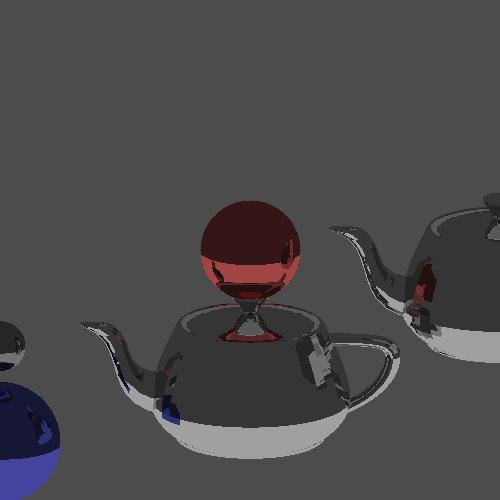
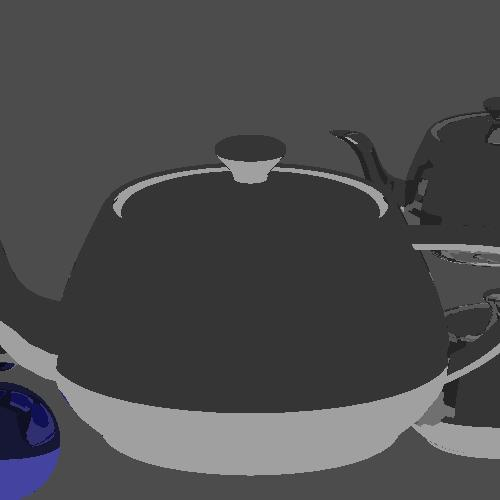
Added better obj support

diff --git a/src/simulation/Ray/IO/OBJFile.java b/src/simulation/Ray/IO/OBJFile.java
@@ -8,120 +8,162 @@ import simulation.Ray.Tracables.Traceable;
 import simulation.Ray.Tracables.Tri;
 
 import java.util.ArrayList;
+//todo clean up and make more compatible and add texture coordinates
 
+//parse obj files
 public class OBJFile implements GeometryFile{
 
+    //data
     ArrayList<Vector3> vertexes = new ArrayList<>();
     ArrayList<Vector3> normals = new ArrayList<>();
-    ArrayList<Integer> faces = new ArrayList<>();
-    ArrayList<Integer> normal_faces = new ArrayList<>();
+    ArrayList<Vector3> texture_coordinates = new ArrayList<>();
 
+    //indices of data(faces)
+    ArrayList<Integer> vert_indexes = new ArrayList<>();
+    ArrayList<Integer> norm_indexes = new ArrayList<>();
+    ArrayList<Integer> tex_indexes = new ArrayList<>();
+
+    //parse the file itself. Specify to scale and flip the normals. Blender requires to be flipped normals normally.
+    //only supports triangles
    public OBJFile(String filename, double scale, boolean flip_normals){
+       //flip normals
        double flip = 1;
-       if(flip_normals){
-           flip = -1;
-       }
+       if(flip_normals){flip = -1;}
 
+        //open file
        ReadFile f = new ReadFile(filename);
        ArrayList<String> lines = f.getLines();
+
+       //parse line by line
        for (String line: lines) {
-            if(line.isEmpty()){
-                continue;
-            }
+            String[] split = line.split("\\s+|/+"); //split by whitespace or slash
+            if(split.length < 4){continue;} //empty or invalid line
 
-             if(line.charAt(0) == 'v' && line.charAt(1 ) == 'n'){ //vertex normal
-                String[] split = line.split("\\s+");
-                if(split.length == 4){//correct amount of values
-                    //ignore first since it is v
-                    Vector3 v = new Vector3(Double.parseDouble(split[1])*flip, Double.parseDouble(split[2])*flip, Double.parseDouble(split[3])*flip); //parse position
-                    normals.add(v);
-                }
-
-
-            }
-             else if(line.charAt(0) == 'v'){ //vertex
-                String[] split = line.split("\\s+");
-                if(split.length == 4){//correct amount of values
-                    //ignore first since it is v
+           //check the type
+            if(split[0].equals("v")){ //vertex
                     Vector3 v = new Vector3(Double.parseDouble(split[1])*scale, Double.parseDouble(split[2])*scale, Double.parseDouble(split[3])*scale); //parse position
                     vertexes.add(v);
-                }
-
-
-            }
-
-            else if(line.charAt(0) == 'f'){ //fase
-                String[] split = line.split("\\s+|/");
+            }else if(split[0].equals("vn")){ //vertex normal
+                Vector3 v = new Vector3(Double.parseDouble(split[1])*scale, Double.parseDouble(split[2])*scale, Double.parseDouble(split[3])*scale); //parse position
+                normals.add(v);
+            }else if(split[0].equals("vt")){ //texture coordinate
+                Vector3 v = new Vector3(Double.parseDouble(split[1])*scale, Double.parseDouble(split[2])*scale, 0); //parse position
+                texture_coordinates.add(v);
+            }else if(split[0].equals("f")){ //face
                 if(split.length == 4) {//triangle not quad
-                    //ignore first split since it is f
-                    //parse and add indices
-                    faces.add(Integer.parseInt(split[1])-1);
-                    faces.add(Integer.parseInt(split[2])-1);
-                    faces.add(Integer.parseInt(split[3])-1);
+                    //parse and add indices, all the same
+                    vert_indexes.add(Integer.parseInt(split[1])-1);
+                    vert_indexes.add(Integer.parseInt(split[2])-1);
+                    vert_indexes.add(Integer.parseInt(split[3])-1);
 
-                    normal_faces.add(Integer.parseInt(split[1])-1);
-                    normal_faces.add(Integer.parseInt(split[2])-1);
-                    normal_faces.add(Integer.parseInt(split[3])-1);
+                    tex_indexes.add(Integer.parseInt(split[1])-1);
+                    tex_indexes.add(Integer.parseInt(split[2])-1);
+                    tex_indexes.add(Integer.parseInt(split[3])-1);
+
+                    norm_indexes.add(Integer.parseInt(split[1])-1);
+                    norm_indexes.add(Integer.parseInt(split[2])-1);
+                    norm_indexes.add(Integer.parseInt(split[3])-1);
 
                 }
-                else if(split.length == 10){//separate normal indices
-                    faces.add(Integer.parseInt(split[1])-1);
-                    faces.add(Integer.parseInt(split[4])-1);
-                    faces.add(Integer.parseInt(split[7])-1);
+                else if(split.length == 10) {//separate normal and texture coordinate indices
                     //f index/tex/normal index/tex/normal  index/tex/normal
-                    normal_faces.add(Integer.parseInt(split[3])-1);
-                    normal_faces.add(Integer.parseInt(split[6])-1);
-                    normal_faces.add(Integer.parseInt(split[9])-1);
+                    vert_indexes.add(Integer.parseInt(split[1]) - 1);
+                    vert_indexes.add(Integer.parseInt(split[4]) - 1);
+                    vert_indexes.add(Integer.parseInt(split[7]) - 1);
+
+                    tex_indexes.add(Integer.parseInt(split[2]) - 1);
+                    tex_indexes.add(Integer.parseInt(split[5]) - 1);
+                    tex_indexes.add(Integer.parseInt(split[8]) - 1);
+
+                    norm_indexes.add(Integer.parseInt(split[3]) - 1);
+                    norm_indexes.add(Integer.parseInt(split[6]) - 1);
+                    norm_indexes.add(Integer.parseInt(split[9]) - 1);
+                } else if(split.length == 7) { //only special indices for either normal OR texture coords
+                    vert_indexes.add(Integer.parseInt(split[1]) - 1);
+                    vert_indexes.add(Integer.parseInt(split[3]) - 1);
+                    vert_indexes.add(Integer.parseInt(split[5]) - 1);
+                    if (line.contains("//")) { //normal specified
+                        //f index//norm index//norm  index//norm
+                        norm_indexes.add(Integer.parseInt(split[2]) - 1);
+                        norm_indexes.add(Integer.parseInt(split[4]) - 1);
+                        norm_indexes.add(Integer.parseInt(split[6]) - 1);
+
+                        tex_indexes.add(Integer.parseInt(split[1]) - 1);
+                        tex_indexes.add(Integer.parseInt(split[2]) - 1);
+                        tex_indexes.add(Integer.parseInt(split[3]) - 1);
+
+                    } else { //texture specified
+                        //f index/tex index/tex  index/tex
+                        tex_indexes.add(Integer.parseInt(split[2]) - 1);
+                        tex_indexes.add(Integer.parseInt(split[4]) - 1);
+                        tex_indexes.add(Integer.parseInt(split[6]) - 1);
+
+                        norm_indexes.add(Integer.parseInt(split[1]) - 1);
+                        norm_indexes.add(Integer.parseInt(split[2]) - 1);
+                        norm_indexes.add(Integer.parseInt(split[3]) - 1);
+                    }
 
 
                 }
-
 
             }
-
 
        }
    }
 
+
+   //convert data to traceable
     @Override
     public Group getScene() {
        ArrayList<Traceable> objects = new ArrayList<>();
-       boolean gen_normals = normals.size() != vertexes.size() || normal_faces.size() != faces.size(); //check if vertex normals are given
+
+       //check if it contains vertex normals and texture coordinates
+       boolean gen_normals = normals.size() == 0; //check if vertex normals are given
+        boolean gen_tex_coords = texture_coordinates.size()==0; //check if vertex normals are given
 
        //construct triangles out of faces and vertices
-        for (int i = 0; i < faces.size(); i+=3) {
+        for (int i = 0; i < vert_indexes.size(); i+=3) {
+            //gather data
             Vector3[] verts = new Vector3[3];
             Vector3[] norms = new Vector3[3];
+            Vector3[] tex = new Vector3[3];
 
-            //auto generate flat normals
-            //get vertices
-            Vector3 vert_a = vertexes.get(faces.get(i+0));
-            Vector3 vert_b = vertexes.get(faces.get(i+1));
-            Vector3 vert_c = vertexes.get(faces.get(i+2));
-            //get sides
-            Vector3 side_a = vert_a.subtract(vert_b);
-            Vector3 side_b = vert_c.subtract(vert_b);
-            //take cross product of two sides
-            Vector3 auto_normal = side_a.cross( side_b).normalized();
+            Vector3 auto_normal = new Vector3();
+            if(gen_normals){
+                //auto generate flat normals
+                //get vertices
+                Vector3 vert_a = vertexes.get(vert_indexes.get(i+0));
+                Vector3 vert_b = vertexes.get(vert_indexes.get(i+1));
+                Vector3 vert_c = vertexes.get(vert_indexes.get(i+2));
+                //get sides
+                Vector3 side_a = vert_a.subtract(vert_b);
+                Vector3 side_b = vert_c.subtract(vert_b);
+                //take cross product of two sides
+                auto_normal = side_a.cross( side_b).normalized();
+            }
+            //auto generate texture coordinates
+            Vector3 auto_coord = vertexes.get(vert_indexes.get(i+0)).normalized();
 
+            //set values
             for (int j = 0; j < 3; j++) {
-
-
-                verts[j] =  vertexes.get(faces.get(i+j));
+                verts[j] =  vertexes.get(vert_indexes.get(i+j)); //set vertex
+                //set normal
                 if(gen_normals){
                     norms[j] = auto_normal; //use flat normals
                 }else{
-                    norms[j] =  normals.get(normal_faces.get(i+j)); //get vertex normals
+                    norms[j] =  normals.get(norm_indexes.get(i+j)); //get vertex normals
                 }
-
-
+                //set text coord
+                if(gen_tex_coords){
+                    tex[j] = auto_coord; //use flat normals
+                }else{
+                    tex[j] =  texture_coordinates.get(tex_indexes.get(i+j)); //get vertex normals
+                }
             }
-            objects.add(new Tri(verts,norms));
+            objects.add(new Tri(verts,norms));//add triangle
 
         }
-
-
-        return new Group(objects);
+        return new Group(objects); //build bvh and return group
     }
 
     @Override

diff --git a/src/simulation/Ray/Tracables/Group.java b/src/simulation/Ray/Tracables/Group.java
@@ -7,24 +7,16 @@ import simulation.Ray.Ray;
 
 import java.util.ArrayList;
 // a bunch of traceable that are part of a common object that can be traced
-//each group can be instanced into a different position, and has it's own bvh
-//groups can and should be nested
+//Is a traceable object, can be instanced, can be nested
+//Use lots of these, help BVH be more efficient, since it contains its own sub bvh
 public class Group implements Traceable {
     private ArrayList<Traceable> objects;
     private BVH acceleration;
-    private Vector3 position;
 
-
-    //create a group of objects, and build its acceleration structure. Can be offset into a position
-    public Group(ArrayList<Traceable> objects, Vector3 position){
-        this.position = position;
+    //create a group of objects, and build its acceleration structure.
+    public Group(ArrayList<Traceable> objects){
         this.objects = objects;
         buildBVH();
-    }
-
-    //create a group of objects, and build its acceleration structure. is at origin.
-    public Group(ArrayList<Traceable> objects){
-        this(objects,new Vector3());
     }
 
     //re-build the acceleration structure
@@ -32,24 +24,19 @@ public class Group implements Traceable {
         acceleration = new BVH(objects);
     }
 
-
-
     //trace a ray against all possible objects and return data
     @Override
     public  HitData trace(Ray ray){
-        //offset ray to offset whole group's position
-        Ray offset_ray = new Ray(ray.getOrigin().subtract(position), ray.getDirection());
-
-            return acceleration.trace(offset_ray);
+            return acceleration.trace(ray);
     }
 
     @Override
     public Vector3 getMin() {
-        return acceleration.getMin().add(position);
+        return acceleration.getMin();
     }
 
     @Override
     public Vector3 getMax() {
-        return acceleration.getMax().add(position);
+        return acceleration.getMax();
     }
 }

diff --git a/src/simulation/Ray/Tracables/Instance.java b/src/simulation/Ray/Tracables/Instance.java
@@ -1,0 +1,53 @@
+package simulation.Ray.Tracables;
+
+import simulation.Alg.Vector3;
+import simulation.Ray.Acceleration.BVH;
+import simulation.Ray.HitData;
+import simulation.Ray.Ray;
+
+import java.util.ArrayList;
+
+
+//Move or scale an object without even re instantiating it
+//basically a group with one object
+//works by changing the ray,rather than the object itself, meaning you can re-use a single object with different transforms
+public class Instance implements Traceable {
+    private Traceable object;
+    private Vector3 position;
+    private Vector3 scale;
+
+    //Create instance that can scale and translate
+    public Instance(Traceable object, Vector3 position, Vector3 scale){
+        this.position = position;
+        this.scale = scale;
+        this.object = object;
+    }
+
+    //create instance with only position offset
+    public Instance(Traceable object, Vector3 position){
+        this(object,position,new Vector3(1));
+    }
+
+
+
+    //trace a ray against object
+    @Override
+    public  HitData trace(Ray ray){
+        //todo fix scaling, not occluding correctly
+        //offset ray to offset object's position and scale without changing the object itself
+        Ray offset_ray = new Ray(ray.getOrigin().subtract(position).divide(scale), ray.getDirection());
+        return object.trace(offset_ray);
+    }
+
+    //pass through min and max, but offset and dilate
+    @Override
+    public Vector3 getMin() {
+        return object.getMin().multiply(scale).add(position);
+    }
+
+    @Override
+    public Vector3 getMax() {
+        return object.getMax().multiply(scale).add(position);
+    }
+
+}

diff --git a/src/simulation/Ray/RayTracer.java b/src/simulation/Ray/RayTracer.java
@@ -6,6 +6,7 @@ import simulation.IO.PixelDisplay;
 import simulation.Ray.IO.OBJFile;
 import simulation.Ray.Shader.Cell;
 import simulation.Ray.Shader.ShaderTask;
+import simulation.Ray.Tracables.Instance;
 import simulation.Ray.Tracables.Sphere;
 import simulation.Ray.Tracables.Group;
 import simulation.Ray.Tracables.Traceable;
@@ -103,9 +104,11 @@ public class RayTracer {
         OBJFile file = new OBJFile("test.obj",1.0, true);
         Traceable obj = file.getScene();;
         world.add(obj);
-         ArrayList<Traceable> sub = new ArrayList<>();
-         sub.add(obj);
-        world.add(new Group(sub,new Vector3(-5,2,0)));
+
+        world.add(new Instance(obj, new Vector3(-5,0,0), new Vector3(1,1,1)));
+        world.add(new Instance(obj, new Vector3(-5,4,0), new Vector3(1.0,1.0,1.0)));
+        world.add(new Instance(obj, new Vector3(0,0,0), new Vector3(2,2,2)));
+
 
 
         return new Group(world);

diff --git a/src/simulation/Ray/Camera.java b/src/simulation/Ray/Camera.java
@@ -47,5 +47,14 @@ public class Camera {
         return new Ray(ray_position,ray_direction.normalized()); //simple camera for now
     }
 
+    public Vector3 getPosition() {
+        return position;
+    }
+
+    public Vector3 getDirection() {
+        return direction;
+    }
+
+
 
 }
